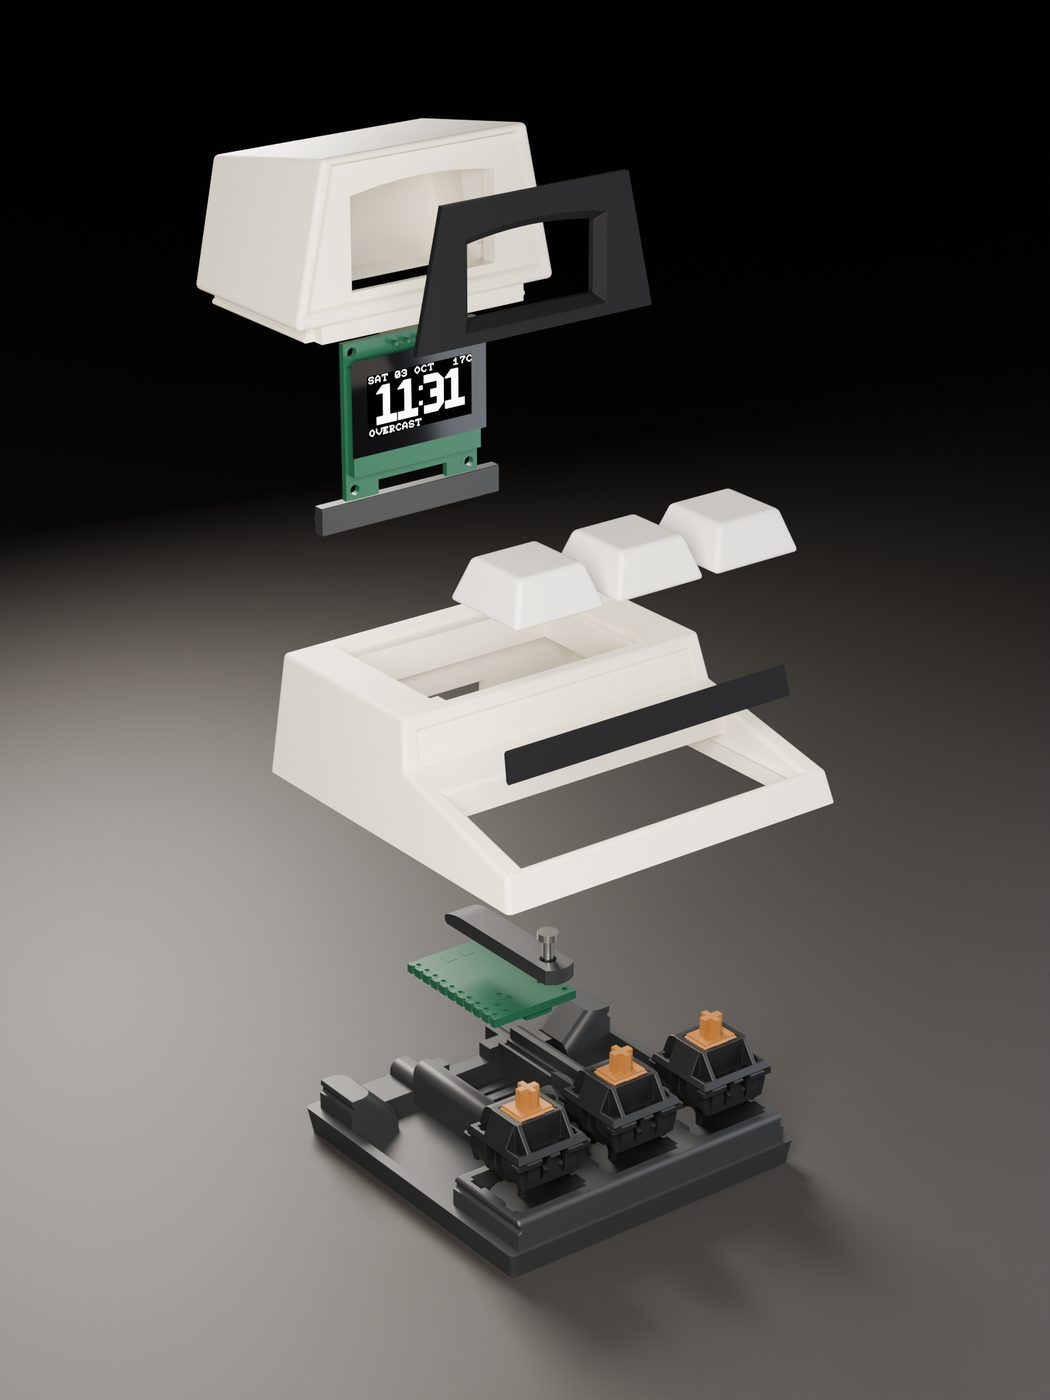
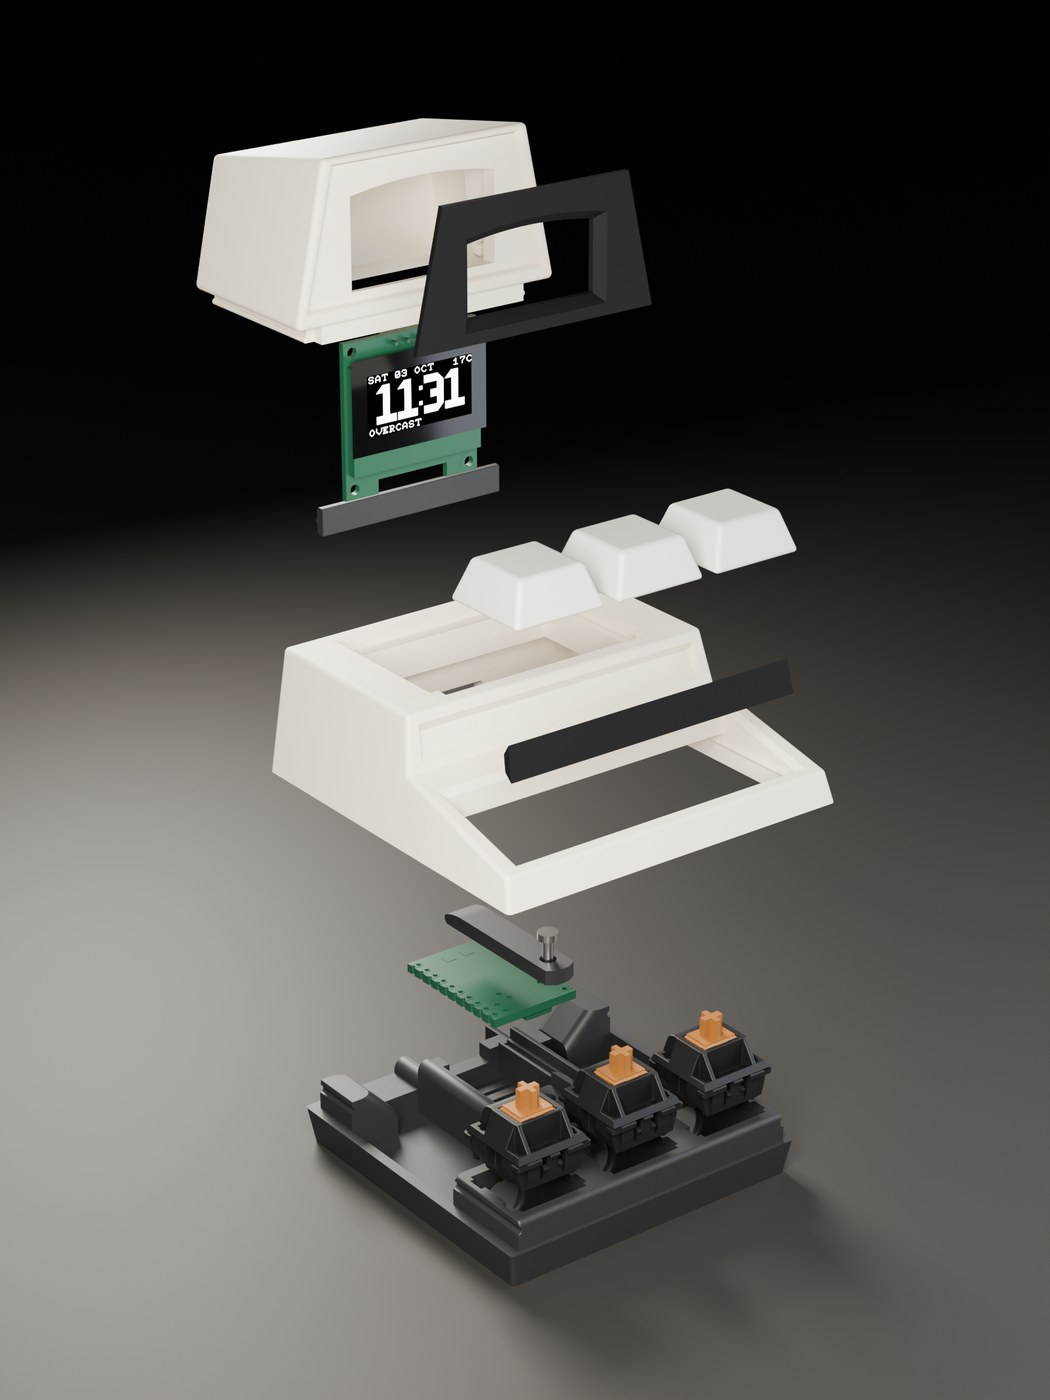
Refresh the case renders and print figures for the V3 model
The V3 case has a 2 mm deeper base, a 1 mm taller main frame and a larger
badge strip. The project page now quotes the V3 slice: about 1 h 53 min
and ~70 g of PLA.

Claude-Session: https://claude.ai/code/session_01M4DDTdDhp9ABJRjt2cNYPh

diff --git a/docs/index.html b/docs/index.html
@@ -170,7 +170,7 @@ footer a{margin:0 8px}
  <div class="txt">
   <h3>3D-printable case</h3>
   <p id="models-text">The PET-style case — seven parts, print-ready 3MF and STLs, and an 8-page illustrated build guide — is on Printables.
-  It prints in about 2 h 30 min from ~66 g of PLA; everything is press-fit except two small glued trim parts and one screw.</p>
+  It prints in about 1 h 53 min from ~70 g of PLA; everything is press-fit except two small glued trim parts and one screw.</p>
  </div>
  <a class="btn models-link" href="https://www.printables.com/model/1864857-pet-pc-retro-pet-style-desk-terminal" target="_blank" rel="noopener">Get the 3D models</a>
 </div>
